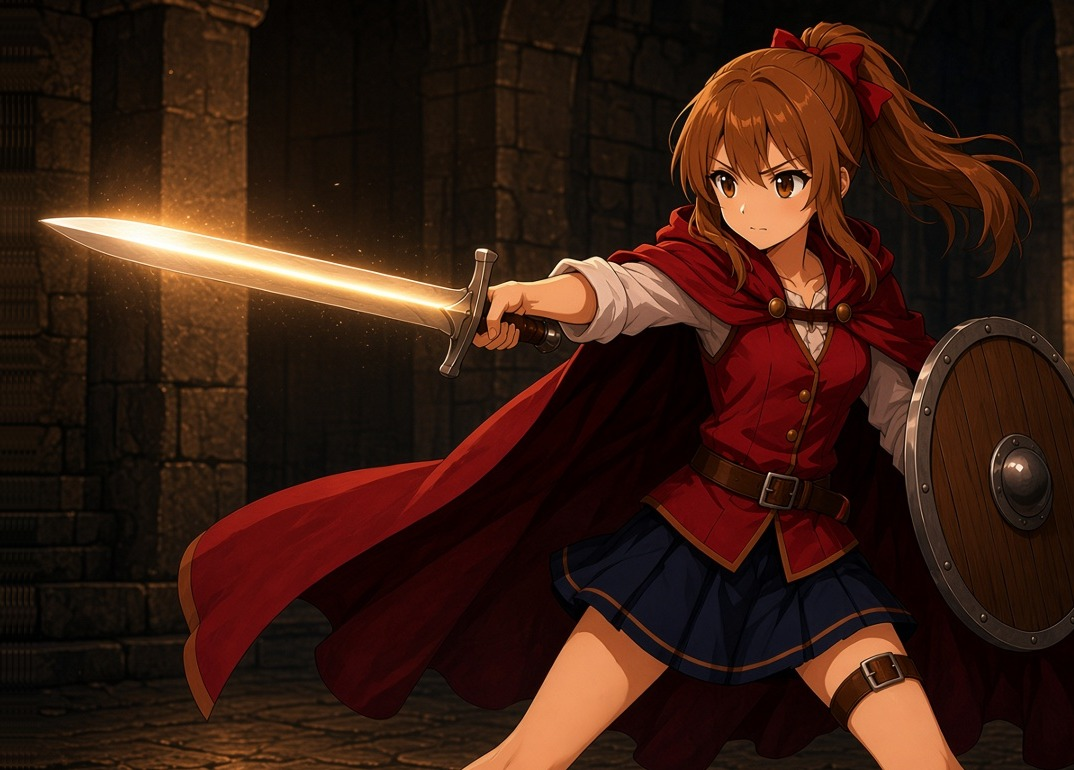
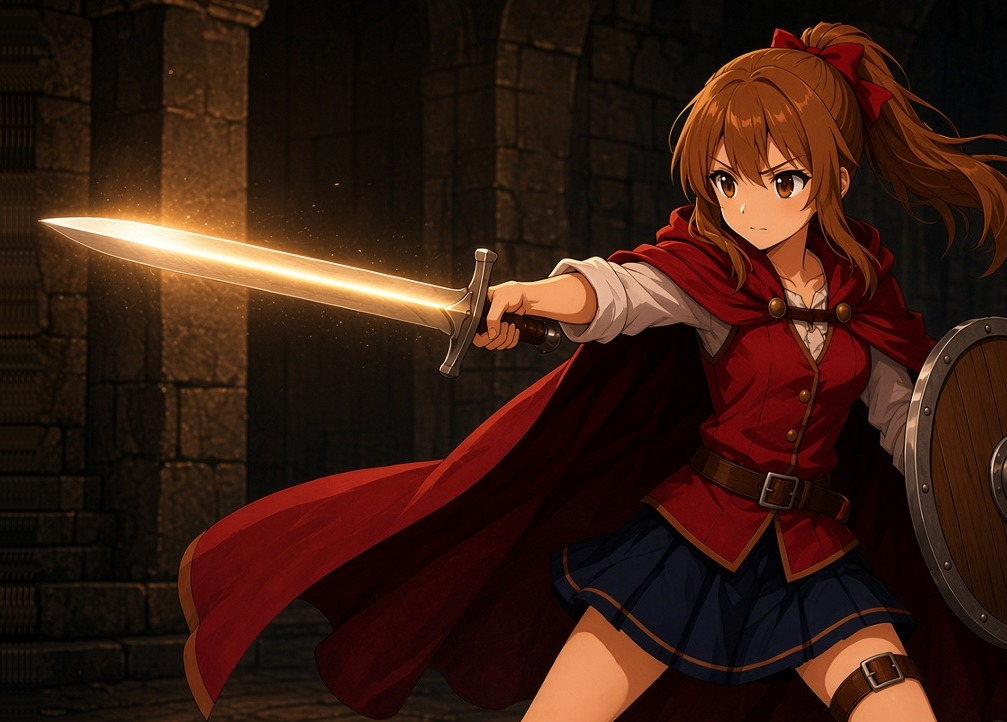
アタックの絵柄を、盾の縁が少し見切れる画角に寄せた。

diff --git a/index.html b/index.html
@@ -6829,7 +6829,7 @@
       ["パリィ", 1],
     ];
     const CARD_ART = {
-      アタック: "card-attack-f.jpg?v=10",
+      アタック: "card-attack-f.jpg?v=11",
       チャージアタック: "card-charge-f.jpg?v=7",
       ブロック: "card-block-f.jpg?v=10",
       パリィ: "card-parry.jpg?v=9",
